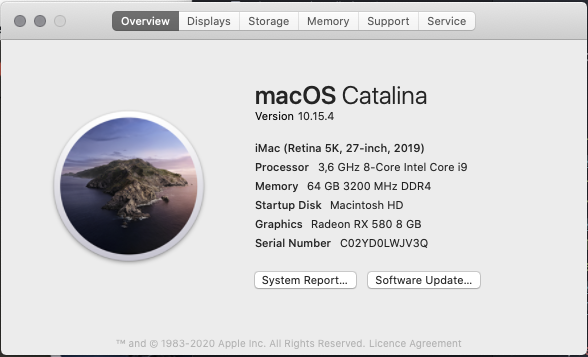
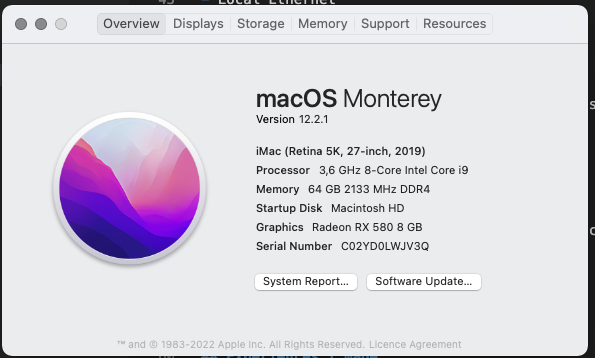
Feature/upgrade to macos monterey (#1)
* Upgraded macOS Monterey.
* Upgraded openCore 0.7.9

diff --git a/README.md b/README.md
@@ -13,9 +13,18 @@ I used this guides as starting point:
 
 Current Versions:
 
-- Current macOS version: macOS Catalina 10.15.7
-- Current OpenCore version: 0.6.8. 
+- Current macOS version: macOS Monterey 12.2.1
+- Current OpenCore version: 0.7.9 
 - Current BIOS version: 2812. 
+
+## Upgrades
+<details>
+<summary>Details</summary>
+
+- [Description of the upgrade from OpenCore 0.7.9 and macOS Monterey](./docs/upgrade-to-macos-monterey.md)
+
+
+</details>
 
 ## Hardware
 <details>
@@ -52,7 +61,8 @@ daskeyboard  | A mechanical keyboard for Mac power-users
 - iPhoto
 - iMovie
 - Virtualization with Oracle VirtualBox and Docker
-- Webcam with iPhone 7 and EpocCam HD app
+- Webcam with iPhone 11 and EpocCam HD app
+- Webcam external via USB
 
 </details>
 
@@ -60,7 +70,7 @@ daskeyboard  | A mechanical keyboard for Mac power-users
 <details>
 <summary>Details</summary>
 
-- Upgrade to OpenCore 0.6.8 was easy when using the tools OpenCore Configurator and OC_Gen-X (see section tools below).
+- Upgrade to OpenCore 0.7.9 was easy when using the tools OpenCore Configurator and OC_Gen-X (see section tools below).
 - With using OpenIntelWireless I am also able to use the internal Wireless and Bluetooth capabilities.
 - I would recommend to use this tools instead of do the manual way.
 - First try your new configuration on a USB stick before finally moving the configuration to the EFIT "final" partition.
@@ -130,7 +140,7 @@ Tools and commands needed to setup and configure a Hackintosh:
 <details>
 <summary>Details</summary>
 
-- [IntelBluetoothFirmware] (https://github.com/OpenIntelWireless/IntelBluetoothFirmware)
+- [IntelBluetoothFirmware](https://github.com/OpenIntelWireless/IntelBluetoothFirmware)
     IntelBluetoothFirmware is a Kernel Extension that uploads Intel Wireless Bluetooth Firmware to provide native Bluetooth in macOS
 
 - [tonymacx86: resources and help to build an hackintosh](https://www.tonymacx86.com/:)

diff --git a/docs/upgrade-to-macos-monterey.md b/docs/upgrade-to-macos-monterey.md
@@ -1,4 +1,4 @@
-# Upgrade to MacOS Monterey
+# Upgrade to macOS Monterey
 
 ## Upgrade OpenCore from 0.6.9 to 0.7.9
 
@@ -54,13 +54,17 @@
 
 - Check the configuration using mentu Tools > Confic Checker
 
-    ![](../images/MacOS-Monterey-Update-08.png)
-
+    ![](../images/MacOS-Monterey-Update-09.png) 
 
 - Test system startup with the USB drive. When everything is working copy the EFI-partition from the USB drive to the hard drive of your
 computer. Afterwards restart your computer.
 
 
+## Upgrade MacOS
+
+![](../images/MacOS-Monterey-Update-10.png)
+
+After upgrading MacOS restart your computer und everything should work as expected.
 
 ## Tools
 
@@ -68,6 +72,6 @@ computer. Afterwards restart your computer.
 
 ## References
 
-- [Updating OpenCore, kexts and macOS] (https://dortania.github.io/OpenCore-Post-Install/universal/update.html#updating-opencore)
+- [Updating OpenCore, kexts and macOS](https://dortania.github.io/OpenCore-Post-Install/universal/update.html#updating-opencore)
 
 
